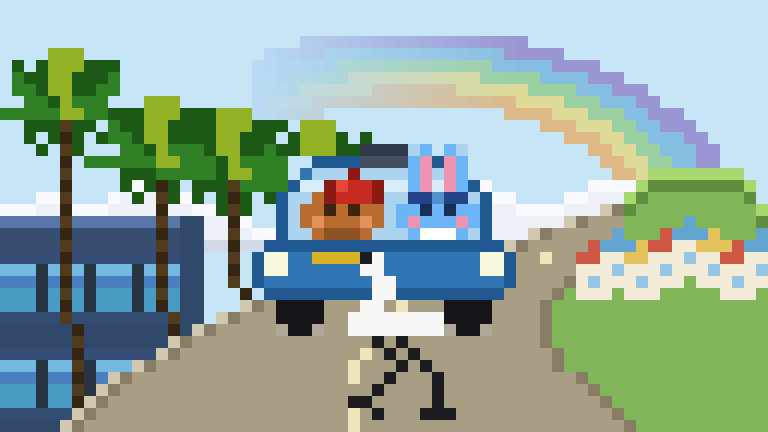
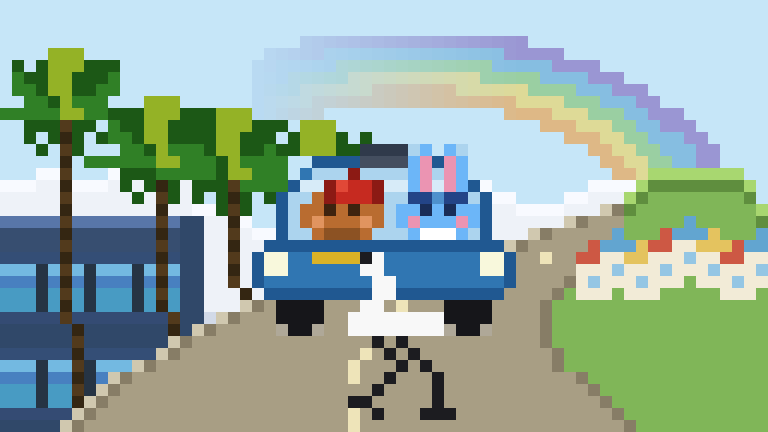
rainbow: 云底延伸到y=26，左侧云上移2格

Changed region(s): [[0.25, 0.5417, 0.3438, 0.7222], [0.0, 0.3912, 0.1562, 0.4815], [0.2188, 0.4213, 0.25, 0.4514]]

diff --git a/pixel_rainbow.py b/pixel_rainbow.py
@@ -95,8 +95,8 @@ CLD_T  = (248, 250, 255)   # 云顶高光
 
 # 波浪轮廓：每列云顶 y（波峰波谷交替）
 _cld_top = {
-     0:17,  1:17,  2:17,  3:16,  4:16,  5:16,  6:17,  7:17,
-     8:17,  9:16, 10:15, 11:15, 12:15, 13:15, 14:16, 15:16,
+     0:15,  1:15,  2:15,  3:14,  4:14,  5:14,  6:15,  7:15,
+     8:15,  9:14, 10:13, 11:13, 12:13, 13:13, 14:14, 15:14,
     16:17, 17:17, 18:17, 19:17, 20:18, 21:19, 22:19, 23:19,
     24:19, 25:18, 26:17, 27:16, 28:15, 29:15, 30:15, 31:15,
     32:16, 33:17, 34:17, 35:17, 36:16, 37:15, 38:15, 39:15,
@@ -104,7 +104,7 @@ _cld_top = {
     48:16, 49:15, 50:15, 51:15, 52:15, 53:16, 54:16, 55:17,
     56:17, 57:17, 58:17, 59:18, 60:18, 61:17, 62:17, 63:17,
 }
-_cld_bot = 20  # 云底统一到 y=20
+_cld_bot = 26  # 云底延伸到 y=26
 
 for _cx, _cy_top in _cld_top.items():
     sp(_cx, _cy_top, CLD_T)         # 云顶高光
